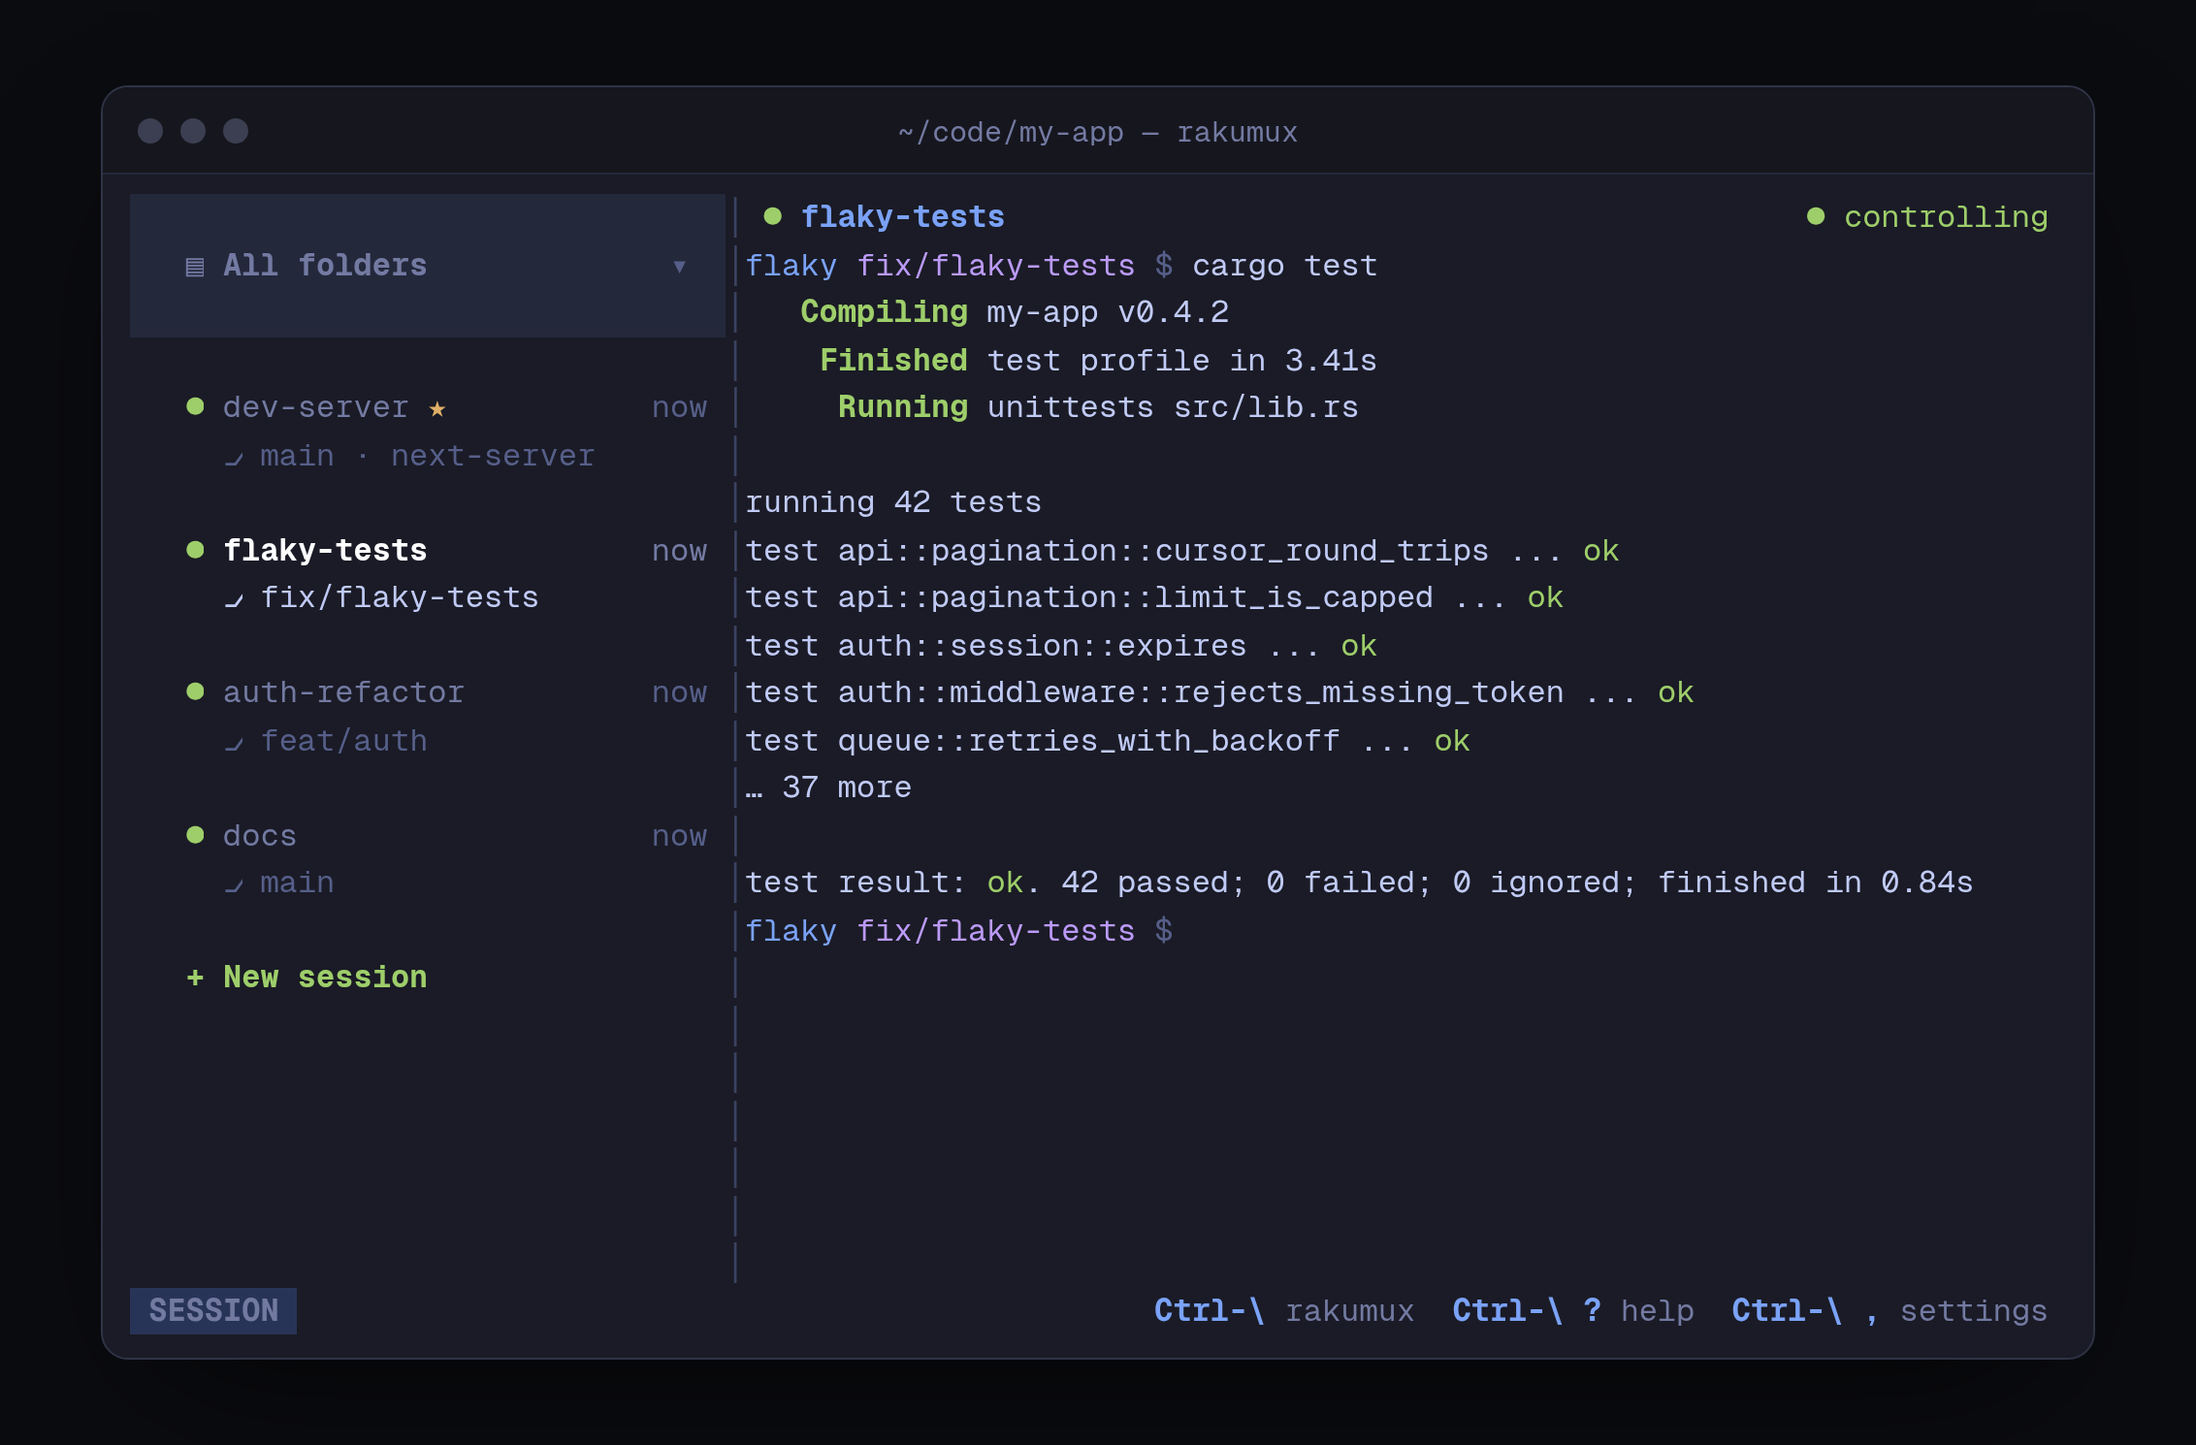
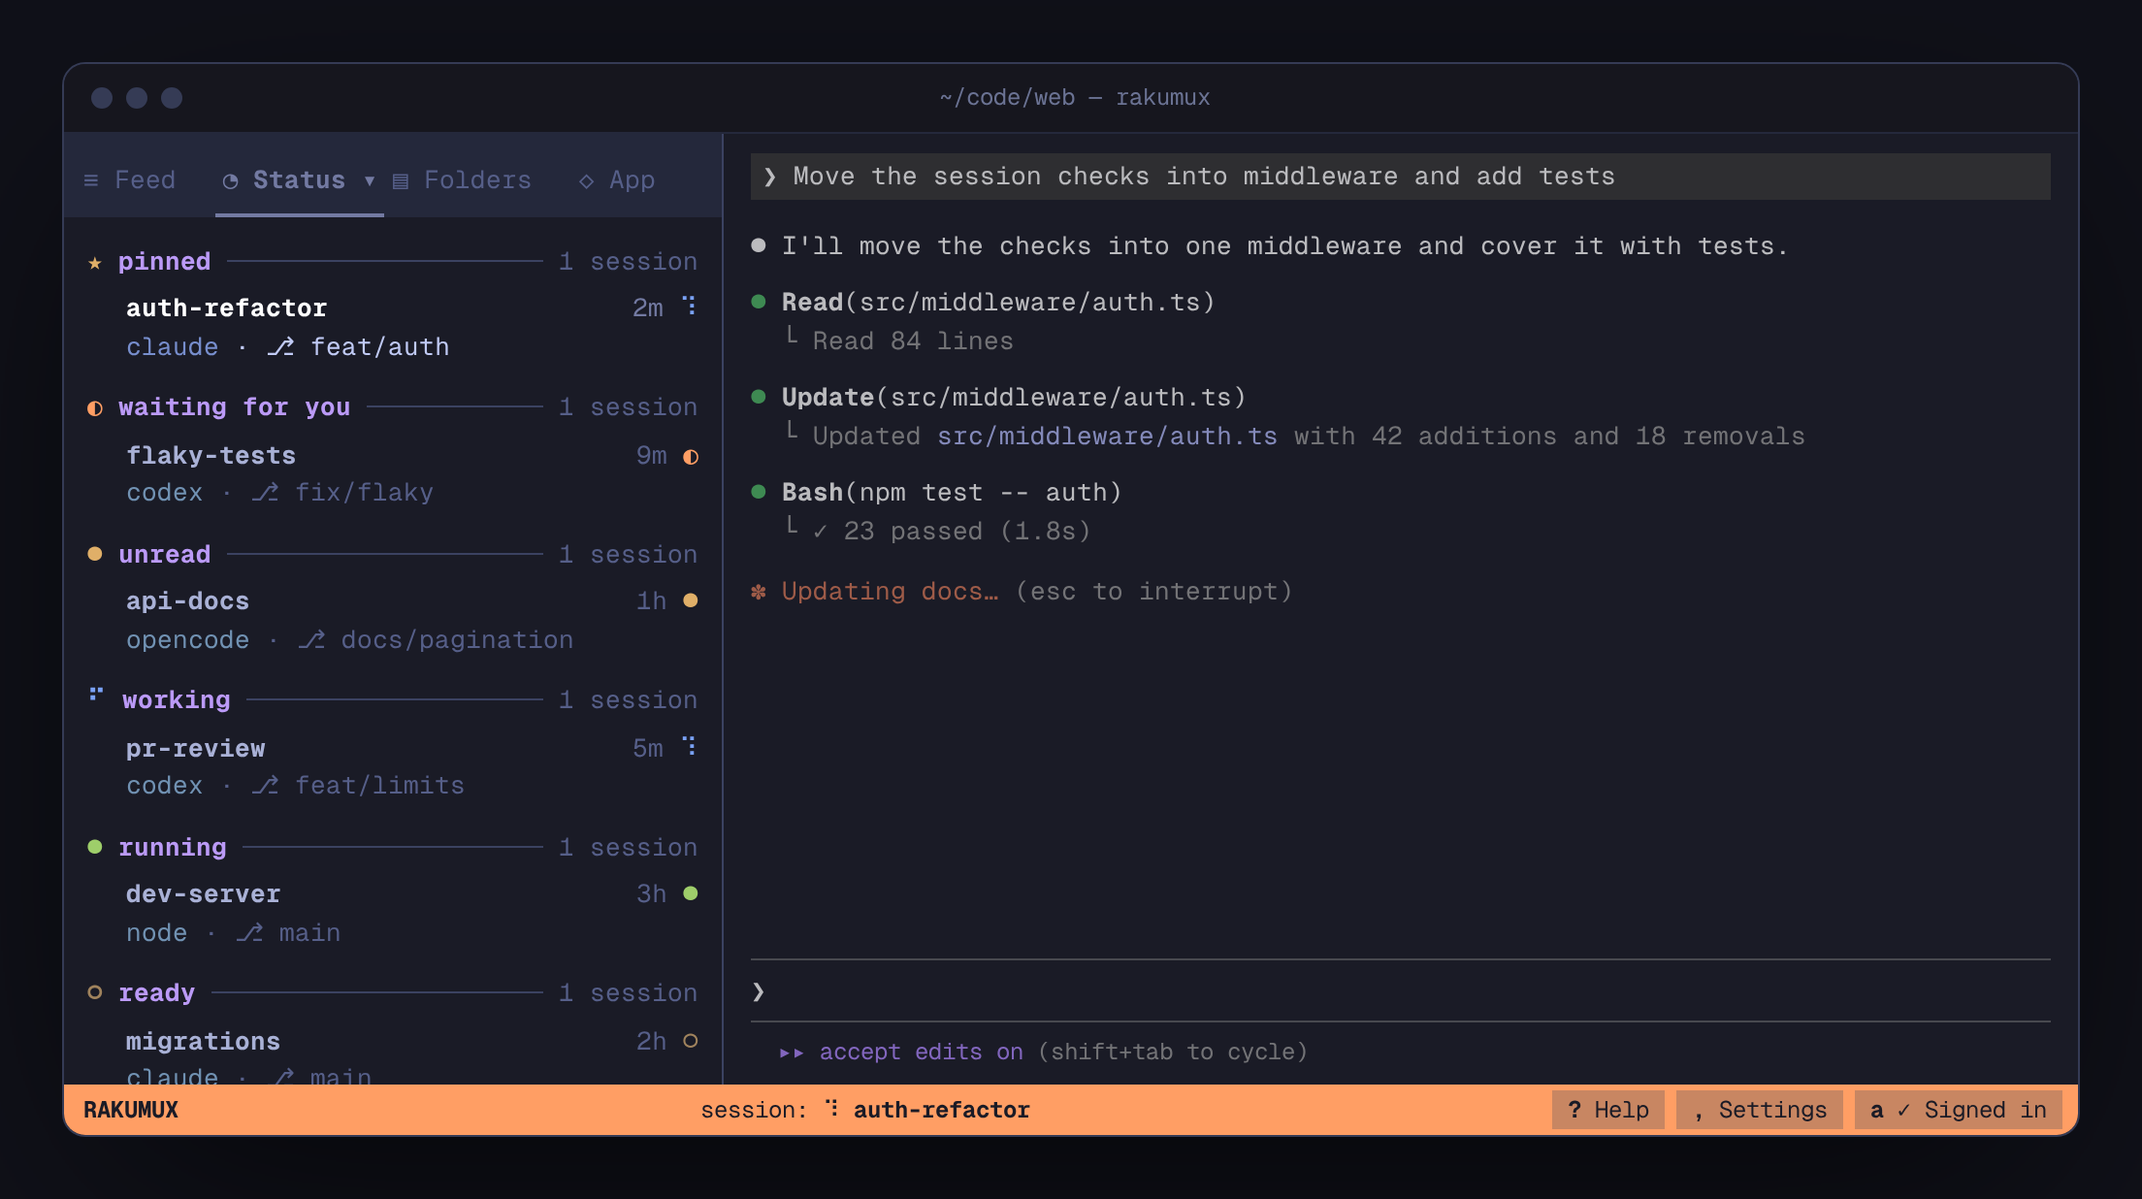
README: a current guide for new users
Rewritten for someone installing Rakumux for the first time: what it is,
installing (and without sudo), a quick start, the two modes and Rakumux
mode's keys, the list's tabs, how sessions keep running and come back,
the CLI, agent hooks and MCP, the optional account (summaries, Agent
feed, writing back from rakumux.com), phones, configuration and building
from source. The screenshot shows today's UI: the tabs, the pinned
section, status groups and the Rakumux-mode footer.

diff --git a/README.md b/README.md
@@ -1,129 +1,286 @@
 # Rakumux
 
-**Terminal sessions for coding agents, in one fast terminal UI.**
+**A terminal multiplexer for coding agents.**
 
-[rakumux.com](https://rakumux.com) · [Source](https://github.com/humanunsupervised/rakumux) · [Releases](https://github.com/humanunsupervised/rakumux/releases)
+[rakumux.com](https://rakumux.com) · [Releases](https://github.com/humanunsupervised/rakumux/releases) · [Pricing](https://rakumux.com/pricing)
 
 楽 (*raku*) means easy, and read *gaku* it means music: tmux, made easy.
 
-![Rakumux session list and live terminal](assets/rakumux-screenshot.png)
+![Rakumux: the session list and a live Claude Code session](assets/rakumux-screenshot.png)
 
-Run Claude Code, Codex, OpenCode, Pi, dev servers, and shells side by side. A small background
-daemon owns your terminals, so sessions keep running when you close the UI or lose an SSH
-connection.
+Run Claude Code, Codex and OpenCode side by side, on your own subscriptions, along with any other
+program. Rakumux shows which agent is working, which needs you and which has finished. Your
+sessions keep running when you close the window, lose SSH or reboot.
 
-- See every folder's sessions, with live previews and agent status.
-- Filter, rename, reorder, and pin sessions without managing worktrees.
-- Switch between your program and Rakumux with `Ctrl-\`.
-- Use the CLI, local HTTP API, or Model Context Protocol (MCP) server to drive sessions.
-- Pair a separate mobile client over opt-in Tailscale access.
+- **Every session in one list.** Group it by status, folder or app, with live previews. Pin,
+  reorder and filter your sessions.
+- **Your agent's native keys.** In a session every key goes to the program. A single key,
+  `Ctrl-\`, switches to Rakumux.
+- **Sessions outlive the UI.** One background server owns every terminal. After a crash or a
+  reboot, agents resume their conversation.
+- **Answer from anywhere** (optional free account). Read your agents' replies on rakumux.com in
+  any browser, including your phone's, and write back. No VPN or open port.
+- **Scriptable.** A CLI, a local HTTP API and an MCP server, so agents can drive sessions too.
 
-## Build and run
+Free and open source (Apache-2.0), for macOS and Linux. No tmux, git or VPN required.
 
-Requires a stable Rust toolchain, a C compiler, and bash on macOS or Linux. SQLite is bundled.
-Git and tmux are not runtime dependencies.
-
-```bash
-git clone https://github.com/humanunsupervised/rakumux.git
-cd rakumux
-./build.sh
-./rakumux.sh
-```
-
-The recommended binary installer is:
+## Install
 
 ```bash
 curl -fsSL https://rakumux.com/install.sh | bash
 ```
 
-The installer verifies the release checksum before running the tarball's installer. Re-run it
-to upgrade. npm and Homebrew publishing are not enabled. See the
-[installation guide](install/INSTALL.md) for binary and release-tarball instructions.
-Native binaries are available for macOS Intel, macOS Apple Silicon and Linux x64.
+The installer:
 
-**Update in the app:** press `Shift+U` in Rakumux mode, or open Settings → Update.
-Confirm to download, verify and install the new release, then restart only the UI. Running
-sessions and the daemon stay up. Binary installs need a writable installation directory;
-admin-owned installs need the installer outside the app. Source builds use `./build.sh`, then `R`.
+- picks the build for your machine (macOS Apple Silicon, macOS Intel or Linux x64);
+- checks the download against the release's SHA-256 checksums;
+- installs into `/usr/local`, asking for `sudo` if it needs to.
+
+To install into your home directory without `sudo`, run the following, then make sure
+`~/.local/bin` is on your `PATH`:
+
+```bash
+curl -fsSL https://rakumux.com/install.sh | PREFIX="$HOME/.local" bash
+```
+
+This gives you three commands:
+
+- `rakumux`: the app and the CLI;
+- `rakumux-mcp`: the MCP server for agents;
+- `rakumux-api`: the local HTTP API.
+
+The session server, `rakumux-ptyd`, is installed alongside them. Rakumux needs nothing else at
+runtime besides bash.
+
+**Update:** press `U` in Rakumux mode, or re-run the installer. Running sessions stay up.
+
+For release tarballs, uninstalling and troubleshooting, see the
+[installation guide](install/INSTALL.md).
 
 ## Quick start
 
-In the UI, press `n` or click **+ New session** to create and enter a session immediately.
-Run an agent or any command in its shell.
-Press `Ctrl-\` to return to Rakumux mode. Use `j`/`k` or the arrow keys to select a session,
-`Enter` to work in it, and `?` for Help. Quitting the UI does not stop sessions.
+```bash
+cd ~/code/my-app
+rakumux
+```
 
-**Layouts:** Settings → Layout, or `v` in Rakumux mode, cycles **Master detail**
-(the default), **Grid**, and **Tabs**. Grid shows a responsive page of up to six real live
-terminal previews. Arrows or `h`/`j`/`k`/`l` select cards; `PgUp`/`PgDn` change page. Enter or
-a tap opens a session; `Ctrl-\` returns to Grid. Folder/text filters and pinned/custom ordering
-apply to every layout. Grid previews are read-only observers: browsing never takes control,
-resizes a terminal, sends input, or marks a session as used. Cards crop/pan at the terminal's
-existing size. Only visible cards have preview streams; dead/exited cards show saved output.
-`n` or the + New session card creates and enters a generated-name session immediately.
+1. Press `n` to start a session. You're in its shell, so run `claude`, `codex`, `opencode` or
+   anything else.
+2. Press `Ctrl-\` to switch to Rakumux mode. The footer turns orange.
+3. Use `↑`/`↓` to pick a session, `Enter` to go back in, and `n` to start another.
+4. Press `q` to quit. Your sessions keep running, and `rakumux` brings them back.
 
-**Bottom terminal:** `T` in Rakumux mode, or Settings → Terminal panel, opens an
-independent shell underneath the main detail. It starts in the selected session's current
-directory (or the current folder when none is selected) and has its
-own input focus. Click a pane to focus it; `Ctrl-\` returns to Rakumux mode, then `Esc` returns
-to the shell or `T` hides it. The × button hides it too. Drag the horizontal divider to resize.
-Hiding does not stop the shell or its command; reopening reuses the same terminal.
-The pane creates no Rakumux session or session-list entry. Typing `exit` or sending end-of-file
-closes the pane and releases its terminal automatically. The pane belongs to this UI window,
-so closing or reloading the UI ends its temporary shell, not any Rakumux sessions.
-Short windows show the focused pane alone. A daemon restart in place preserves the pane;
-reconnecting starts read-only until you refocus it. Older daemons need an in-place restart
-to support standalone panes; Rakumux never falls back to creating a session for one.
+### Two modes, one key
+
+| Mode | Footer | Keys go to | Switch to it |
+|---|---|---|---|
+| Session | blue | the program, so your agent's shortcuts all work | `Enter` on a session |
+| Rakumux | orange | Rakumux | `Ctrl-\` |
+
+Rakumux claims only one key, so it never overrides your agent's shortcuts. To send `Ctrl-\`
+itself to the program, press `\` in Rakumux mode. To use another key, set
+`sessions.rakumux_key` in `~/.rakumux/config.json`.
+
+### Rakumux mode keys
+
+| Key | Action |
+|---|---|
+| `↑` `↓` or `j` `k` | Select a session |
+| `Enter` | Go into it (also restarts or revives an ended one) |
+| `Esc` | Back to the session you came from |
+| `Tab` / `1`–`9` | Last session / that session |
+| `n` | New session in the current folder |
+| `←` `→` | Switch tabs: Feed, Status, Folders, App |
+| `P` / `/` | Filter by folder / by text |
+| `p` | Pin or unpin |
+| `J` `K` | Move down or up (or drag the session) |
+| `r` | Rename |
+| `x` / `d` | Close (end its program) / delete |
+| `v` | Layout: Master detail, Grid, Tabs |
+| `T` | Terminal panel: a scratch shell under the session |
+| `z` | Full screen |
+| `?` / `,` | Help / Settings (every key, searchable) |
+| `U` | Update |
+| `q` | Quit (sessions keep running) |
+
+The mouse works too: click to select, drag to reorder, and drag the divider to resize.
+
+## How sessions work
+
+A session is a folder and a terminal. `n` starts one in the current folder, and from the CLI
+`rakumux new --cwd DIR` starts one anywhere.
+
+### The list
+
+Tabs across the top of the list group your sessions:
+
+- **Status**: waiting for you, unread, working, waiting for response, running, exited, dead, then
+  ready (read, newest first).
+- **Folders**: by folder, with each folder's git branch. Sessions in another linked worktree go
+  under it.
+- **App**: by agent or program.
+- **Feed**: your agents' replies, newest first (needs an account).
+
+Pinned sessions sit above every group.
+
+### Status
+
+Rakumux reads each agent's status from its screen. The [activity hooks](#coding-agents) make it
+exact.
+
+An ended session keeps its last screen:
+
+- **exited**: its program ended. `Enter` restarts it.
+- **dead**: its terminal is gone, for example after `rakumux daemon stop`. `Enter` revives it,
+  resuming the agent's conversation.
+
+### The server
+
+One server per user, `rakumux-ptyd`, owns every terminal. It starts when first needed and keeps
+running with no window open. Any number of windows can connect at once, from any login: SSH, mosh
+or a phone.
+
+- **Restart:** `rakumux daemon restart` swaps in a new version without stopping your programs.
+- **Recovery:** after a crash or a reboot, the sessions that were running come back by
+  themselves. Claude Code, Codex and OpenCode return in the same conversation. Other programs
+  have their command typed at the prompt.
+
+## Command line
 
 ```bash
-rakumux new --name dev          # Create and attach
-rakumux ls --all                # List sessions across folders
-rakumux attach dev              # Full-screen attach; Ctrl-\ then d detaches
-rakumux daemon status
+rakumux new --name dev                          # create a session and attach
+rakumux new --detach --name web -- npm run dev  # start a program in the background
+rakumux ls --all                                # sessions of every folder
+rakumux attach dev                              # full screen; Ctrl-\ then d detaches
+rakumux rename dev api
+rakumux pin dev
+rakumux kill dev
+rakumux rm dev
+rakumux daemon status                           # also start, stop, restart, logs
 rakumux --help
 ```
 
-From a checkout, use `./rakumux.sh` instead of `rakumux`.
+`rakumux ls` lists only the current folder's sessions; `--all` lists every folder's.
 
-## Agent integration
+For scripts and agents, `rakumux session list|get|read|wait|report` print JSON.
 
-Activity hooks for OpenCode, Claude Code and Codex provide busy spinners, needs-input
-markers, tool phases and agent-internal subagent counts. Setup is opt-in; see
-[agent integrations](integrations/README.md). Screen detection remains the fallback.
+## Coding agents
 
-With agent integrations enabled, each session's branch follows the agent's active or
-last-used worktree while that agent runs. Without an agent it follows the terminal cwd.
-This never creates/switches worktrees or changes the session's folder permissions.
+Rakumux runs any agent as it is. Two extras are optional.
+
+### Activity hooks
+
+The hooks report exactly when an agent is working, needs input or is done. They also report its
+subagents and the worktree it's working in.
+
+```bash
+rakumux session hook-config --agent claude  # merge the printed hooks into ~/.claude/settings.json
+rakumux session hook-config --agent codex   # merge into ~/.codex/hooks.json, then trust them in /hooks
+rakumux-mcp opencode-plugin --install       # OpenCode
+```
+
+For details, see the [agent integrations guide](integrations/README.md).
+
+### MCP server
+
+The MCP server lets an agent list, create, read and rename sessions in its own folder.
 
 ```bash
 claude mcp add --scope user rakumux -- rakumux-mcp
 ```
 
-See the [MCP guide](mcp/README.md) for Codex, OpenCode, tool permissions, and session identity.
-The [HTTP API guide](api/README.md) describes local automation and remote access.
+For Codex, OpenCode and session identity, see the [MCP guide](mcp/README.md).
 
-Sessions and settings live in `~/.rakumux`. Set `RAKUMUX_HOME` to use an isolated data directory.
-Optional AI naming uses your own Anthropic or OpenAI key; no account or key is needed for terminal
-sessions. Remote access is off until explicitly enabled.
+## Rakumux account (optional)
 
-## Development
+Everything above works without an account.
+
+**Sign in** with `a` in Rakumux mode, or `rakumux account login`. Then turn features on under
+**Settings → Available on sign-in**.
+
+**AI session summaries** add a short description under each agent session's name. Press `s` to
+refresh one.
+
+**Agent feed** collects your agents' replies and chats from every signed-in machine:
+
+- in Rakumux's Feed tab;
+- at [rakumux.com/feed](https://rakumux.com/feed), with your sessions by status, folder and app.
+
+**Writing back:** you can answer an agent from the web. Rakumux types your message into the
+session once the agent is waiting for you. Each machine takes replies written elsewhere only with
+**Replies from rakumux.com** turned on in its Settings.
+
+**Privacy:** your machine only ever calls out to rakumux.com. Nothing calls in. Before uploading,
+Rakumux masks text that looks like a key, a credential or a token.
+
+The free plan covers all of this. See [pricing](https://rakumux.com/pricing) and the
+[privacy policy](https://rakumux.com/privacy).
+
+## From your phone
+
+- **Browser:** open rakumux.com in your phone's browser for the feed, your sessions and writing
+  back.
+- **SSH:** the app fits phone-width terminals. Tap a session to go in. `Ctrl-\`, or a tap on the
+  `SESSION` badge, goes back to the list.
+- **iPhone app (coming soon):** it connects over [Tailscale](https://tailscale.com). Run
+  `rakumux remote on`, then `rakumux remote pair` to show its QR code.
+
+## Configuration and data
+
+- **Data:** sessions, saved output, logs and `config.json` live in `~/.rakumux`.
+- **Separate instance:** set `RAKUMUX_HOME` to another directory to run a fully separate
+  instance, with its own server and sessions.
+- **Settings** (`,`): layout, icons, session-switching keys, your account and its features.
+- **Session names:** Rakumux names sessions with AI if you provide your own Anthropic or OpenAI
+  key, through `ANTHROPIC_API_KEY`, `OPENAI_API_KEY` or `config.json`.
+- **Logs:** `rakumux daemon logs` shows the server's log.
+
+## Build from source
+
+You need stable Rust, a C compiler and bash. SQLite is bundled.
+
+```bash
+git clone https://github.com/humanunsupervised/rakumux.git
+cd rakumux
+./build.sh       # release build of all four binaries
+./rakumux.sh     # run from the checkout
+```
+
+To try it without touching your real sessions:
+
+```bash
+RAKUMUX_HOME=$(mktemp -d) ./rakumux.sh
+```
+
+After rebuilding:
+
+- press `R` to reload the UI;
+- press `S` to restart the server in place. Your sessions keep running.
+
+To run the tests:
 
 ```bash
 cd tui
-cargo build --workspace --locked
 cargo test --workspace --locked
-cargo fmt --all --check
 ```
 
-Read [CONTRIBUTING.md](CONTRIBUTING.md) for checks and the
-[architecture](AGENTS.md) for module boundaries. The website lives in [`landing/`](landing/README.md).
-The mobile app is maintained separately in `humanunsupervised/rakumux-mobile`; its source is not
-part of this repository or this repository's license grant.
+Read [CONTRIBUTING.md](CONTRIBUTING.md) for the full checks, and [AGENTS.md](AGENTS.md) for the
+architecture.
+
+## More
+
+- [Installation guide](install/INSTALL.md): tarballs, upgrading, uninstalling, troubleshooting
+- [Agent integrations](integrations/README.md): hooks, status, worktrees
+- [MCP server](mcp/README.md): tools for coding agents
+- [HTTP API](api/README.md): local automation and remote access
+- [Security](SECURITY.md): reporting a vulnerability privately
 
 ## License
 
 Copyright 2024–2026 Antonio de Perio and Human Unsupervised Pty Ltd.
 
-Rakumux is licensed under [Apache-2.0](LICENSE). Dependencies retain their own licenses;
-binary releases include `THIRD_PARTY_NOTICES`. The license does not grant rights to Rakumux
-trademarks. See [SECURITY.md](SECURITY.md) to report a vulnerability privately.
+Rakumux is licensed under [Apache-2.0](LICENSE). Dependencies keep their own licenses, and binary
+releases include `THIRD_PARTY_NOTICES`. The license grants no rights to Rakumux trademarks.
+
+The mobile app is maintained separately in `humanunsupervised/rakumux-mobile`. Its source is not
+part of this repository or its license grant.
